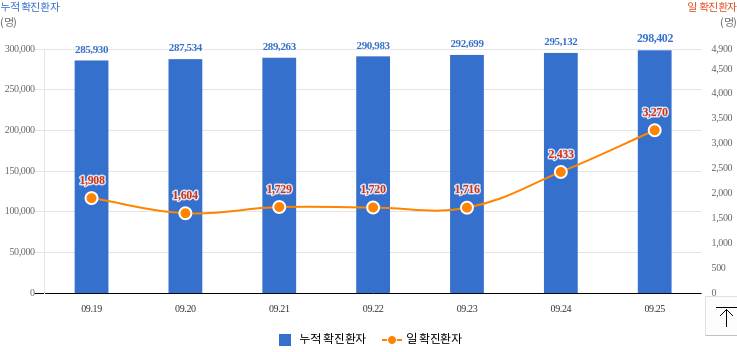
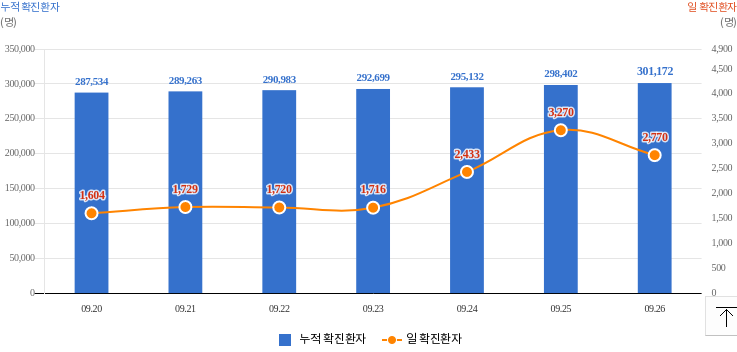
Run crawler and update current data

diff --git a/data.js b/data.js
@@ -7,7 +7,7 @@ var 검사중 = '2,434';
 var 검사결과 = '439,180';
 var 자가격리자 = '214';
 var 거리두기단계 = '사회적 거리두기  3단계 시행 : 2021.9.6.(월) 0시 ~ 10.3.(일) 24시';
-var 국내발생 = '3,245';
-var 해외발생 = '28';
-var 합계 = '3273';
+var 국내발생 = '2,735';
+var 해외발생 = '36';
+var 합계 = '2771';
 var data = [];
